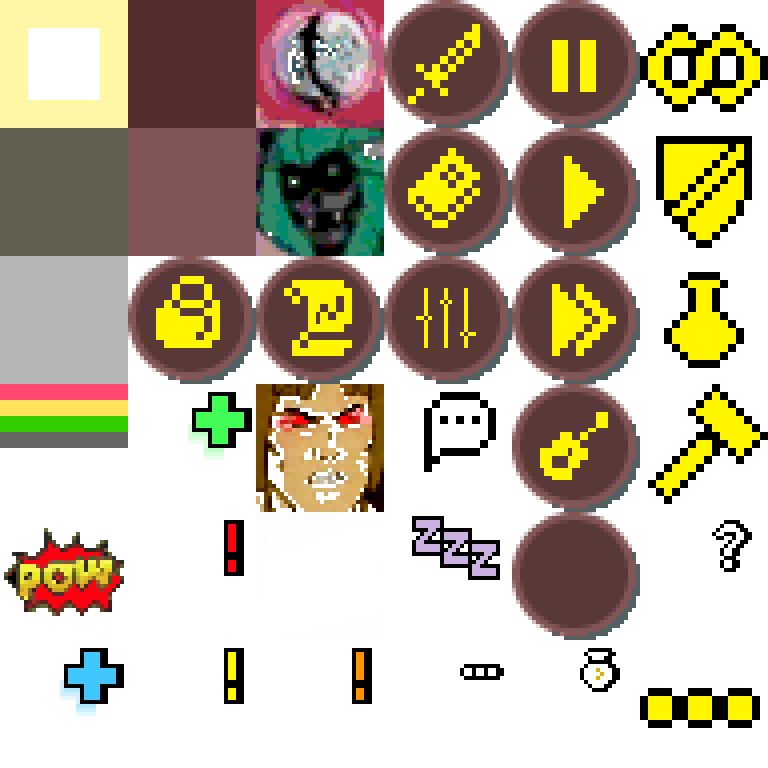
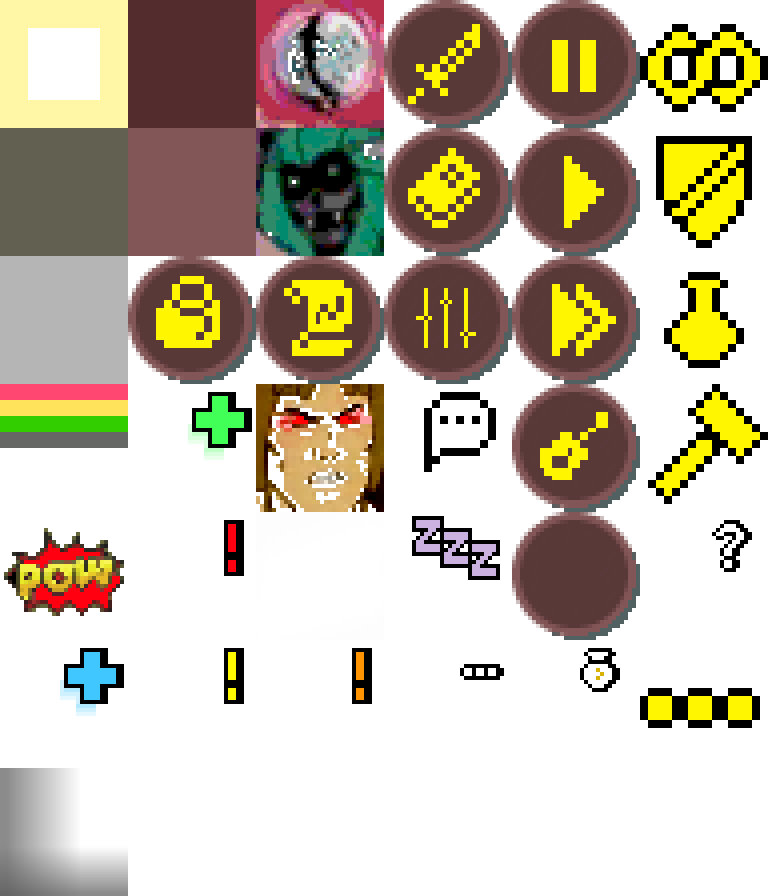
console shade

diff --git a/src/main/kotlin/ui/panels/Console.kt b/src/main/kotlin/ui/panels/Console.kt
@@ -5,6 +5,7 @@ import com.badlogic.gdx.graphics.Color
 import kotlinx.coroutines.launch
 import ktx.async.KtxAsync
 import render.Screen
+import render.tilesets.Glyph
 import util.XY
 import util.log
 import world.Entity
@@ -223,6 +224,14 @@ object Console : Panel() {
                 Screen.width / 2 - floatWidth / 2,
                 Screen.height / 2 - floatHeightAbovePlayer + if (Metamap.isWorking) 150 else 0,
                 floatColor, Screen.smallFont)
+        }
+    }
+
+    override fun drawBackground() {
+        if (mouseInside) {
+            Screen.uiBatch.addPixelQuad(xMargin, yMargin + EnvPanel.height + yMargin,
+                Screen.width - xMargin * 2 - RadarPanel.width, Screen.height - yMargin,
+                Screen.uiBatch.getTextureIndex(Glyph.CONSOLE_SHADE), alpha = 0.5f)
         }
     }
 

diff --git a/src/main/kotlin/render/tilesets/SpriteSheets.kt b/src/main/kotlin/render/tilesets/SpriteSheets.kt
@@ -23,7 +23,7 @@ object SpriteSheets {
             "sheets/tiles_thing.png", 13, 11, Screen.textureFilter
         ),
         UISprites(
-            "sheets/tiles_ui.png", 6, 6, Texture.TextureFilter.Nearest
+            "sheets/tiles_ui.png", 6, 7, Texture.TextureFilter.Nearest
         ),
         MapSprites(
             "sheets/tiles_map.png", 10, 8, Screen.textureFilter

diff --git a/src/main/kotlin/render/tilesets/UITileSet.kt b/src/main/kotlin/render/tilesets/UITileSet.kt
@@ -39,4 +39,5 @@ fun UITileSet() =
         setTile(Glyph.INVENTORY_CONSUMABLES, SimpleTile(this, 5, 2))
         setTile(Glyph.INVENTORY_TOOLS, SimpleTile(this, 5, 3))
         setTile(Glyph.INVENTORY_MISC, SimpleTile(this, 5, 5))
+        setTile(Glyph.CONSOLE_SHADE, SimpleTile(this, 0, 6))
     }

diff --git a/src/main/kotlin/render/tilesets/Glyph.kt b/src/main/kotlin/render/tilesets/Glyph.kt
@@ -78,6 +78,7 @@ enum class Glyph {
     INVENTORY_TOOLS,
     INVENTORY_CONSUMABLES,
     INVENTORY_MISC,
+    CONSOLE_SHADE,
 
     PLAYER,
     PEASANT_PALE_DARK,
